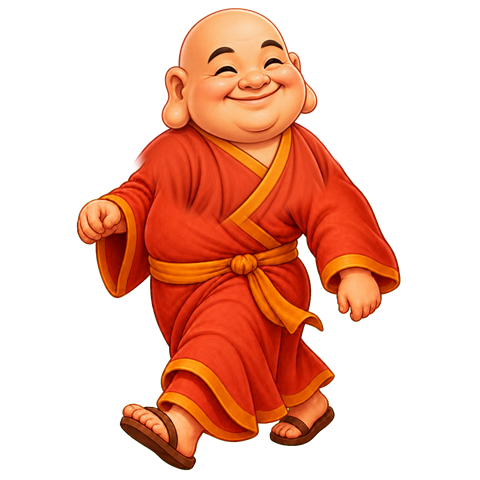
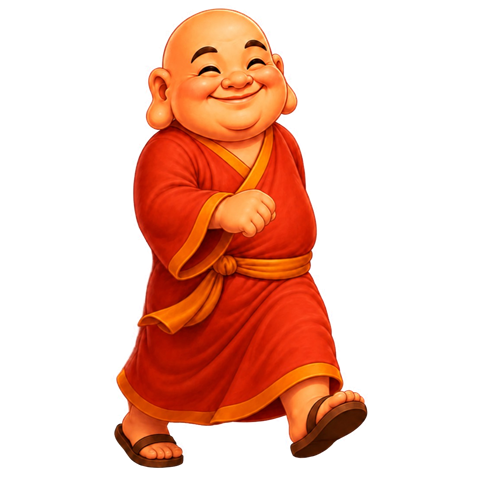
Use provided alternate Buddha step

diff --git a/salon-calendar/manager-assistant.js b/salon-calendar/manager-assistant.js
@@ -5,7 +5,7 @@ const POSE_URLS = Object.freeze({
   smile: new URL('./assets/manager-assistant/buddha-smile.png', import.meta.url).href,
   peek: new URL('./assets/manager-assistant/buddha-peek.png', import.meta.url).href,
   walkA: new URL('./assets/manager-assistant/buddha-walk-a.png', import.meta.url).href,
-  walkB: new URL('./assets/manager-assistant/buddha-walk-b.png?v=right-facing-step', import.meta.url).href,
+  walkB: new URL('./assets/manager-assistant/buddha-walk-b.png?v=user-second-step', import.meta.url).href,
   wave: new URL('./assets/manager-assistant/buddha-wave.png', import.meta.url).href,
   laugh: new URL('./assets/manager-assistant/buddha-laugh.png', import.meta.url).href,
   meditate: new URL('./assets/manager-assistant/buddha-meditate.png', import.meta.url).href

diff --git a/salon-calendar/index.html b/salon-calendar/index.html
@@ -5600,7 +5600,7 @@ async function ensureManagerAssistant() {
   if (managerAssistant) return managerAssistant;
   if (managerAssistantLoadPromise) return managerAssistantLoadPromise;
 
-  managerAssistantLoadPromise = import('./manager-assistant.js?v=right-facing-step')
+  managerAssistantLoadPromise = import('./manager-assistant.js?v=user-second-step')
     .then(module => {
       if (currentUserRole !== 'manager') return null;
       managerAssistant = module.createManagerAssistant();
